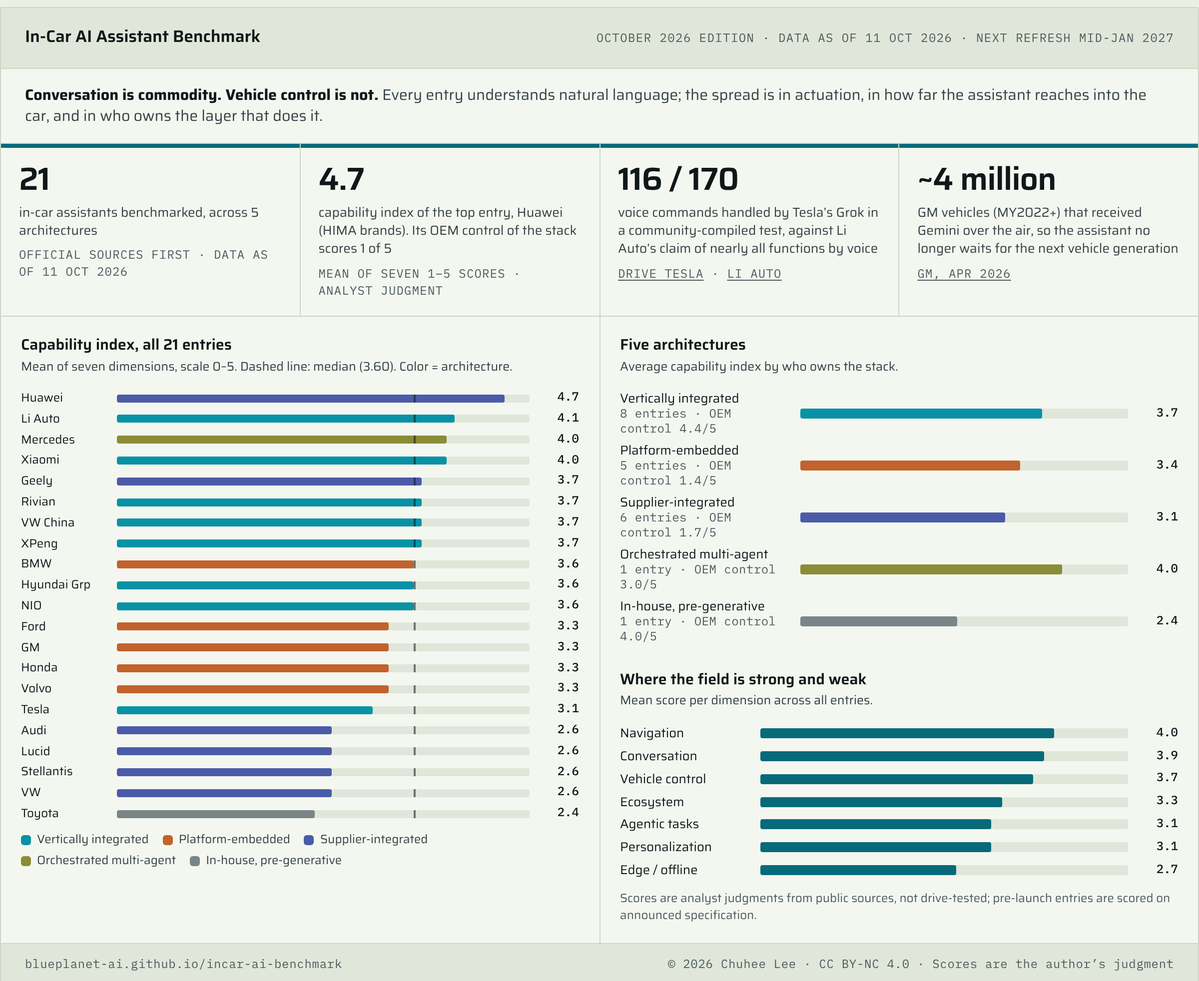
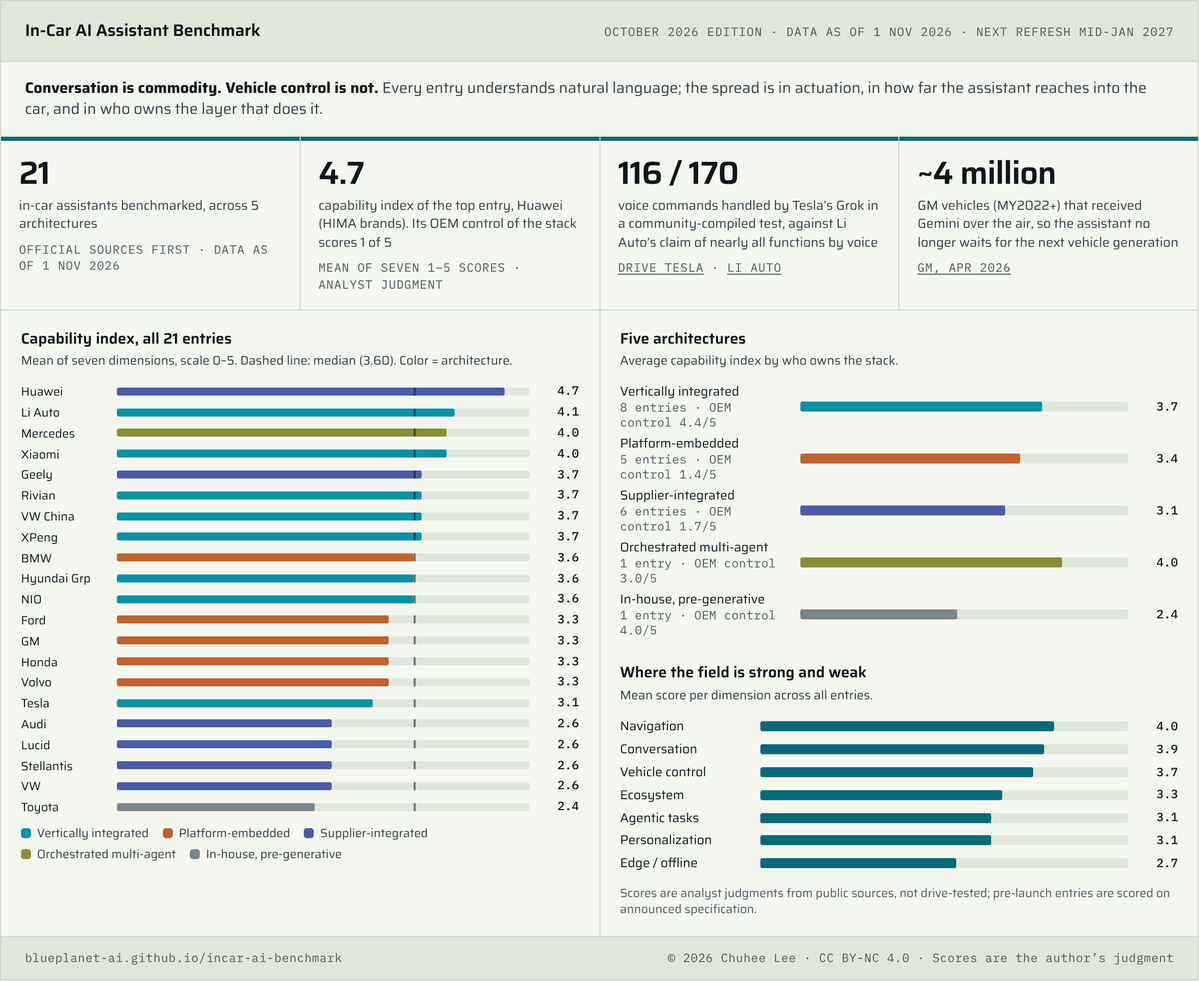
In-Car AI benchmark: 1 Nov 2026 watch-list check (GM OnStar AI Assistant)
- GM entry, use-case row and watch-list item updated for the OnStar AI
  Assistant announced 21 Oct 2026 (2027 Cadillac LYRIQ first by OTA).
  Two trade-press sources added to SRC. No scores changed.
- Other watch-list items rechecked with no material change.
- Data as of 1 Nov 2026 on the page, infographic, home card, README.
- Page change log, CHANGELOG.md and home "What changed" entries added.

Claude-Session: https://claude.ai/code/session_01BJGNVQbnjXG7SToB4bzJMA

diff --git a/incar-ai-benchmark/index.html b/incar-ai-benchmark/index.html
@@ -6,7 +6,7 @@
 <meta name="theme-color" content="#F4F7F0" media="(prefers-color-scheme: light)">
 <meta name="theme-color" content="#151D1F" media="(prefers-color-scheme: dark)">
 <title>In-Car AI Assistant Benchmark — Chuhee Lee</title>
-<meta name="description" content="Independent benchmark of 21 in-car AI assistants, scored on seven capability dimensions and on who controls the stack. October 2026 edition by Chuhee Lee; data as of 11 October 2026.">
+<meta name="description" content="Independent benchmark of 21 in-car AI assistants, scored on seven capability dimensions and on who controls the stack. October 2026 edition by Chuhee Lee; data as of 1 November 2026.">
 <meta name="author" content="Chuhee Lee">
 <link rel="canonical" href="https://blueplanet-ai.github.io/incar-ai-benchmark/">
 <link rel="icon" href="/favicon.svg" type="image/svg+xml">
@@ -15,7 +15,7 @@
 <link rel="license" href="https://creativecommons.org/licenses/by-nc/4.0/">
 <meta property="og:type" content="article">
 <meta property="og:title" content="In-Car AI Assistant Benchmark">
-<meta property="og:description" content="Independent benchmark of 21 in-car AI assistants, scored on seven capability dimensions and on who controls the stack. October 2026 edition by Chuhee Lee; data as of 11 October 2026.">
+<meta property="og:description" content="Independent benchmark of 21 in-car AI assistants, scored on seven capability dimensions and on who controls the stack. October 2026 edition by Chuhee Lee; data as of 1 November 2026.">
 <meta property="og:url" content="https://blueplanet-ai.github.io/incar-ai-benchmark/">
 <meta property="og:site_name" content="Chuhee Lee — Independent Research">
 <meta property="og:image" content="https://blueplanet-ai.github.io/incar-ai-benchmark/og-image.png">
@@ -613,7 +613,7 @@ a.gl-name:hover{color:var(--g-accent)}
  "@type": "Report",
  "headline": "In-Car AI Assistant Benchmark",
  "name": "In-Car AI Assistant Benchmark",
- "description": "Independent benchmark of 21 in-car AI assistants, scored on seven capability dimensions and on who controls the stack. October 2026 edition by Chuhee Lee; data as of 11 October 2026.",
+ "description": "Independent benchmark of 21 in-car AI assistants, scored on seven capability dimensions and on who controls the stack. October 2026 edition by Chuhee Lee; data as of 1 November 2026.",
  "url": "https://blueplanet-ai.github.io/incar-ai-benchmark/",
  "mainEntityOfPage": "https://blueplanet-ai.github.io/incar-ai-benchmark/",
  "inLanguage": "en",
@@ -628,7 +628,7 @@ a.gl-name:hover{color:var(--g-accent)}
   "url": "https://blueplanet-ai.github.io/"
  },
  "license": "https://creativecommons.org/licenses/by-nc/4.0/",
- "dateModified": "2026-10-17",
+ "dateModified": "2026-11-01",
  "image": "https://blueplanet-ai.github.io/og-image.png",
  "datePublished": "2026-10-11"
 }
@@ -660,7 +660,7 @@ a.gl-name:hover{color:var(--g-accent)}
     <h1 class="ro-title">In-Car AI Assistant <em>Benchmark</em></h1>
     <p class="ro-dek">Twenty-one production and near-production assistants, scored on what they can actually do for the driver and on who owns the layer that does it.</p>
     <p class="ro-q"><b>Research question</b><span>What can today’s in-car AI assistants actually do for the driver, and who owns the layer that does it?</span></p>
-    <div class="ro-meta"><span class="ro-by"><svg class="ro-ico" data-ro-ico="person" viewBox="0 0 24 24" aria-hidden="true"></svg>By&nbsp;<a href="https://www.linkedin.com/in/chuheel" target="_blank" rel="noopener"><b>Chuhee Lee</b></a></span><span><svg class="ro-ico" data-ro-ico="doc" viewBox="0 0 24 24" aria-hidden="true"></svg>Data as of 11 Oct 2026</span><span><svg class="ro-ico" data-ro-ico="calendar" viewBox="0 0 24 24" aria-hidden="true"></svg>Next refresh: mid-January 2027</span><a href="#changelog"><svg class="ro-ico" data-ro-ico="history" viewBox="0 0 24 24" aria-hidden="true"></svg>Change log</a></div>
+    <div class="ro-meta"><span class="ro-by"><svg class="ro-ico" data-ro-ico="person" viewBox="0 0 24 24" aria-hidden="true"></svg>By&nbsp;<a href="https://www.linkedin.com/in/chuheel" target="_blank" rel="noopener"><b>Chuhee Lee</b></a></span><span><svg class="ro-ico" data-ro-ico="doc" viewBox="0 0 24 24" aria-hidden="true"></svg>Data as of 1 Nov 2026</span><span><svg class="ro-ico" data-ro-ico="calendar" viewBox="0 0 24 24" aria-hidden="true"></svg>Next refresh: mid-January 2027</span><a href="#changelog"><svg class="ro-ico" data-ro-ico="history" viewBox="0 0 24 24" aria-hidden="true"></svg>Change log</a></div>
     <p class="ro-credit">With research assistance from several AI models (Claude, Gemini, ChatGPT)</p>
     <div class="ro-acts">
       <button type="button" class="ro-primary" id="roCite"><svg class="ro-ico" data-ro-ico="quote" viewBox="0 0 24 24" aria-hidden="true"></svg>Cite</button>
@@ -669,7 +669,7 @@ a.gl-name:hover{color:var(--g-accent)}
       <a href="#refs"><svg class="ro-ico" data-ro-ico="doc" viewBox="0 0 24 24" aria-hidden="true"></svg>References</a>
       <span class="ro-status" id="roStatus" role="status" aria-live="polite"></span>
     </div>
-    <p class="ro-cite"><b>Cite as</b><span id="roCiteText">Chuhee Lee, <i>In-Car AI Assistant Benchmark</i>, October 2026 edition (data as of 11 October 2026), https://blueplanet-ai.github.io/incar-ai-benchmark/, CC BY-NC 4.0.</span></p>
+    <p class="ro-cite"><b>Cite as</b><span id="roCiteText">Chuhee Lee, <i>In-Car AI Assistant Benchmark</i>, October 2026 edition (data as of 1 November 2026), https://blueplanet-ai.github.io/incar-ai-benchmark/, CC BY-NC 4.0.</span></p>
   </div>
 </div></header>
 
@@ -718,7 +718,7 @@ a.gl-name:hover{color:var(--g-accent)}
 
 <section id="summary">
   <div class="sec-head"><h2>Summary</h2><span class="eyebrow">The short version</span></div>
-  <p class="lead">Twenty-one in-car assistants across established automakers, Chinese EV makers and the supplier layer, checked against official sources as of 11 October 2026. Three findings stand out; the full reasoning follows in the strategic read below.</p>
+  <p class="lead">Twenty-one in-car assistants across established automakers, Chinese EV makers and the supplier layer, checked against official sources as of 11 October 2026, with the watch list rechecked on 1 November 2026. Three findings stand out; the full reasoning follows in the strategic read below.</p>
 
   <div class="sum-grid">
     <div class="sum-points">
@@ -993,7 +993,7 @@ a.gl-name:hover{color:var(--g-accent)}
 </section>
 
 <section id="watch">
-  <header class="co"><div class="co-bar"><span>Chapter 5 of 5</span><span class="co-seg" aria-hidden="true"><i></i><i></i><i></i><i></i><i class="on"></i></span></div><div class="co-grid"><span class="co-num" aria-hidden="true">5</span><div class="co-body"><span class="co-eyebrow">Dated watch list</span><h2>What moves next</h2><p class="co-thesis">A dated watch list, from VW Group China&rsquo;s agents and BMW&rsquo;s Alexa+-based assistant to GM&rsquo;s own assistant alongside Gemini.</p></div></div></header>
+  <header class="co"><div class="co-bar"><span>Chapter 5 of 5</span><span class="co-seg" aria-hidden="true"><i></i><i></i><i></i><i></i><i class="on"></i></span></div><div class="co-grid"><span class="co-num" aria-hidden="true">5</span><div class="co-body"><span class="co-eyebrow">Dated watch list</span><h2>What moves next</h2><p class="co-thesis">A dated watch list, from VW Group China&rsquo;s agents and BMW&rsquo;s Alexa+-based assistant to GM&rsquo;s OnStar AI Assistant reaching its first car.</p></div></div></header>
   <div class="watch">
     <div class="item"><div class="when">H2 2026</div><div>
       <h3>VW Group China’s CEA agents confirmed in customer cars</h3>
@@ -1002,8 +1002,8 @@ a.gl-name:hover{color:var(--g-accent)}
       <h3>BMW’s Alexa+-based assistant spreads beyond the iX3</h3>
       <p>Live in iX3s in Germany since spring 2026, with US deliveries under way since September. Further Operating System 9 and X models follow from H2 2026 &mdash; the test of whether a manufacturer-branded assistant on a big-tech architecture reads to customers as the manufacturer’s or as Amazon’s.</p></div></div>
     <div class="item"><div class="when">Late 2026</div><div>
-      <h3>GM’s own assistant arrives alongside Gemini</h3>
-      <p>Confirmed on 31 July: deeper access to vehicle data and telematics, predictive maintenance, owner-specific routines. The first large-scale test of moving from platform-embedded to owned, on vehicles already in customers' hands.</p></div></div>
+      <h3>GM’s OnStar AI Assistant reaches customer cars</h3>
+      <p>Announced on 21 October 2026: GM&rsquo;s own assistant, woken with &ldquo;Hey OnStar&rdquo;, trained on the vehicle, the driver and GM&rsquo;s knowledge library. It arrives first on the 2027 Cadillac LYRIQ by over-the-air update &ldquo;in the coming months&rdquo;, then the Chevrolet Silverado 1500 and GMC Sierra 1500, with a unified OnStar app in 2027. Reports differ on how it relates to Gemini. The first large-scale test of moving from platform-embedded to owned, on vehicles already in customers&rsquo; hands.</p></div></div>
     <div class="item"><div class="when">Late 2026</div><div>
       <h3>SoundHound OASYS Edge reaches its first deployments</h3>
       <p>Fully embedded agentic voice AI that keeps working without a connection, announced in September 2026 for deployment from late 2026 and a CES 2027 showing. No automaker customers named yet.</p></div></div>
@@ -1030,6 +1030,9 @@ a.gl-name:hover{color:var(--g-accent)}
 
   <h3 class="sub-h" id="changelog" style="margin-top:0;">Change log</h3>
   <ul class="log">
+    <li class="loghead">1 November 2026 watch-list check</li>
+    <li><span class="chg">Status</span><div>GM announced its own assistant, the OnStar AI Assistant (21 October 2026). It reaches the 2027 Cadillac LYRIQ first by over-the-air update, then the Silverado 1500 and Sierra 1500. The GM entry, its use-case row and the watch list are updated. GM&rsquo;s OEM control score stays at 1 until the assistant is in customer cars.</div></li>
+    <li><span class="chg">Checked</span><div>The other watch-list items were rechecked to 1 November 2026 with no material change: VW Group China&rsquo;s CEA agents, BMW beyond the iX3, SoundHound OASYS Edge, Alexa Custom Assistant on NVIDIA DRIVE AGX, Huawei Active Suggestion 2.0 (still Q1 2027), the Mercedes C-Class, Ford and Volkswagen in 2027, and Rivian licensing. Other entries remain as checked to 11 October 2026. No scores changed.</div></li>
     <li class="loghead">October 2026 edition</li>
     <li><span class="chg">Changed</span><div>Published as an independent public report. Removed company-specific recommendations; the summary chart now ranks all 21 entries; the routes table covers four architectures; added author, license, disclaimer and the next scheduled refresh date.</div></li>
     <li><span class="chg">Refreshed</span><div>Data checked to 11 October 2026. BMW Launching &rarr; Shipping (assistant live in iX3s in Germany since spring 2026; US deliveries from September). Rivian Assistant now on R2 (software 2026.36). Grok extended to Israel and the UAE. VW ID. AURA T6, the first CEA model, launched 20 September. Kia Sorento (India) assistant by SoundHound. Huawei OTA roadmap and SoundHound OASYS Edge added to the watch list. Toyota re-sourced to its 2022 in-house assistant release. No scores changed.</div></li>
@@ -1044,7 +1047,7 @@ a.gl-name:hover{color:var(--g-accent)}
   </ul>
 
   <div class="caveat">
-    <p><b>How the scores were set.</b> Each entry was scored 1&ndash;5 per dimension from official manufacturer and supplier material first, then J.D. Power benchmark studies, then specialist trade press, current to 11 October 2026. These are analyst judgments calibrated across the set, not measured results &mdash; no vehicle was instrumented or driven. Pre-launch entries (marked Launching) are scored on announced specification, which tends to overstate. Where no official English source could be retrieved, the row says so in its detail. Chinese-market rows rest mainly on trade press and remain the least certain. Readers using this benchmark to inform decisions should validate it with hands-on testing against the seven dimensions.</p>
+    <p><b>How the scores were set.</b> Each entry was scored 1&ndash;5 per dimension from official manufacturer and supplier material first, then J.D. Power benchmark studies, then specialist trade press, current to 11 October 2026; watch-list items were rechecked on 1 November 2026. These are analyst judgments calibrated across the set, not measured results &mdash; no vehicle was instrumented or driven. Pre-launch entries (marked Launching) are scored on announced specification, which tends to overstate. Where no official English source could be retrieved, the row says so in its detail. Chinese-market rows rest mainly on trade press and remain the least certain. Readers using this benchmark to inform decisions should validate it with hands-on testing against the seven dimensions.</p>
   </div>
 
   <h3 class="sub-h">About this report</h3>
@@ -1054,7 +1057,7 @@ a.gl-name:hover{color:var(--g-accent)}
     <p><b>Research assistance.</b> Research, source verification and drafting were carried out with several AI models, including Claude (Anthropic), Gemini (Google) and ChatGPT (OpenAI). Every factual claim is sourced to the references listed below; scores and conclusions are the author’s judgment.</p>
     <p><b>Update schedule.</b> The benchmark is refreshed quarterly, after the major industry events. The next scheduled refresh is in mid-January 2027; every change is recorded in the change log above.</p>
     <p><b>License.</b> &copy; 2026 Chuhee Lee. Licensed under <a href="https://creativecommons.org/licenses/by-nc/4.0/" target="_blank" rel="noopener">Creative Commons Attribution-NonCommercial 4.0 International (CC BY-NC 4.0)</a>. You may share and adapt this work for non-commercial purposes with appropriate credit, a link to the license, and an indication of any changes.</p>
-    <p><b>Suggested citation.</b> Chuhee Lee, <i>In-Car AI Assistant Benchmark</i>, October 2026 edition (data as of 11 October 2026), https://blueplanet-ai.github.io/incar-ai-benchmark/, CC BY-NC 4.0.</p>
+    <p><b>Suggested citation.</b> Chuhee Lee, <i>In-Car AI Assistant Benchmark</i>, October 2026 edition (data as of 1 November 2026), https://blueplanet-ai.github.io/incar-ai-benchmark/, CC BY-NC 4.0.</p>
     <p><b>Corrections.</b> Spotted an error or a newer source? Please get in touch via <a href="https://www.linkedin.com/in/chuheel" target="_blank" rel="noopener">LinkedIn</a>.</p>
   </div>
   <h3 class="sub-h" id="refs">All sources</h3>
@@ -1103,6 +1106,8 @@ const SRC = {
   gasgoo_hs:["Gasgoo — Epicland X9 debuts Huawei ADS 5 and HarmonySpace 6 cockpit, incl. OTA roadmap (17 Jul 2026)","https://autonews.gasgoo.com/articles/news/epicland-x9-debuts-huawei-ads-5-and-harmonyspace-6-cockpit-2077950334705041409","trade"],
   ty_2022:["Toyota — Toyota’s new in-house intelligent assistant learns voice commands (31 May 2022)","https://pressroom.toyota.com/toyotas-new-in-house-intelligent-assistant-learns-voice-commands-and-gets-smarter-over-time/","official"],
   gm_gemini:["GM — Gemini comes to millions of vehicles on the road (28 Apr 2026)","https://news.gm.com/home.detail.html/Pages/news/us/en/2026/apr/0428-Google-Gemini.html","official"],
+  gm_onstar_tc:["TechCrunch — GM is giving OnStar an AI makeover (21 Oct 2026)","https://techcrunch.com/2026/10/21/gm-is-giving-onstar-an-ai-makeover/","trade"],
+  gm_onstar_l2:["The Letter Two — GM turns OnStar into an AI assistant drivers can talk to every day (21 Oct 2026)","https://thelettertwo.com/2026/10/21/gm-onstar-ai-assistant-gemini/","trade"],
   gm_own:["GM Authority — GM proprietary AI assistant launching this year, citing CNBC interview (1 Aug 2026)","https://gmauthority.com/blog/2026/08/gm-proprietary-ai-assistant-launching-this-year/","trade"],
   honda:["Honda — Gemini added to Civic, Accord, CR-V, Pilot and more with Google built-in (15 Jul 2026)","https://hondanews.com/en-US/honda-automobiles/releases/release-197619b9ee3ec0adfccef0bd5f096c4f-honda-adds-google-gemini-a-helpful-ai-assistant-to-civic-accord-cr-v-pilot-and-more-vehicles-with-google-built-in","official"],
   kbb_honda:["Kelley Blue Book — Honda, Acura add AI assistant to many 2023–2026 models","https://www.kbb.com/car-news/honda-acura-add-ai-assistant-to-many-2023-2026-models/","press"],
@@ -1230,11 +1235,11 @@ const DATA = [
   note:"Keeps the BMW voice and gains Amazon’s account graph, smart home and commerce reach — and uses a different model partner in China. The open question is whether a branded wrapper survives contact with a customer who already knows Alexa.",
   src:["bmw","bmw_summer","bmw_news","ek_ix3","gasgoo_ac","ieee"]},
 
- {b:"GM", p:"Google Gemini + own assistant (late 2026)", a:"pe", st:"ship", s:[4,3,3,5,4,3,1], own:1, short:"GM",
-  stack:"Gemini replacing Google Assistant in Google built-in vehicles; requires OnStar connectivity, a Google account and US English. A proprietary assistant built with an unnamed LLM provider on OnStar and vehicle data is announced.",
-  status:"Gemini rolling out from April 2026 to about four million MY2022+ Chevrolet, Buick, GMC and Cadillac vehicles in the US. GM confirmed on 31 July that its own assistant arrives later in 2026.",
+ {b:"GM", p:"Google Gemini + OnStar AI Assistant (announced)", a:"pe", st:"ship", s:[4,3,3,5,4,3,1], own:1, short:"GM",
+  stack:"Gemini replacing Google Assistant in Google built-in vehicles; requires OnStar connectivity, a Google account and US English. GM&rsquo;s own OnStar AI Assistant, trained on the vehicle, the driver and GM&rsquo;s knowledge library, was announced on 21 October 2026; reports differ on whether it runs on Gemini or on a GM-developed model.",
+  status:"Gemini rolling out from April 2026 to about four million MY2022+ Chevrolet, Buick, GMC and Cadillac vehicles in the US. The OnStar AI Assistant (&ldquo;Hey OnStar&rdquo;) reaches the 2027 Cadillac LYRIQ first by over-the-air update in the coming months, then the Silverado 1500 and Sierra 1500.",
   note:"The largest single deployment in the set, and explicitly transitional. OEM control stays at 1 until the proprietary assistant ships.",
-  src:["gm_gemini","gm_own"]},
+  src:["gm_gemini","gm_own","gm_onstar_tc","gm_onstar_l2"]},
 
  {b:"Ford", p:"Gemini (opt-in) + Ford AI Assistant", a:"pe", st:"ship", s:[4,3,3,5,4,3,1], own:2, short:"Ford",
   stack:"Gemini as an opt-in alternative to Google Assistant for in-vehicle voice tasks. Ford’s own AI Assistant — hosted on Google Cloud, built on off-the-shelf LLMs — handles vehicle-specific questions, warning lights and troubleshooting from vehicle data.",
@@ -1335,11 +1340,11 @@ const UC_ROWS=[
   src:["google_tips"],
   grid:{poi:"y",msg:"y",know:"y"}},
 
- {g:"pe", who:"GM", prod:"Gemini + own assistant (late 2026)", conf:"mix",
-  feat:["Everything in the Google built-in row","Fleet-oriented routing: fuel-price and trailer-parking queries","Own assistant announced: predictive maintenance, telemetry analysis, owner routines"],
+ {g:"pe", who:"GM", prod:"Gemini + OnStar AI Assistant (announced)", conf:"mix",
+  feat:["Everything in the Google built-in row","Fleet-oriented routing: fuel-price and trailer-parking queries","OnStar AI Assistant announced (21 Oct 2026): vehicle-specific questions, climate control, range and charging stops; first on the 2027 Cadillac LYRIQ"],
   uc:[Q("Send a message to Anna to let her know that I’m bringing dessert and add a cupcake emoji to it."),Q("Hey Google, take me to the nearest post office. Oh, and add a stop for some good coffee along the way."),Q("I’m suddenly craving barbecue. Are there any good spots along my route? Let’s say, less than a mile detour."),Q("I have three stops to make today and need to finish my day with at least half a tank. Can you help me find the least expensive fuel along my route?"),"Announced own assistant: a &ldquo;kids setting&rdquo; that adjusts climate, music and seats together (CNBC interview, via GM Authority)"],
   lim:["Gemini needs OnStar connectivity, a Google account and US English"],
-  src:["gm_gemini","gm_own"],
+  src:["gm_gemini","gm_own","gm_onstar_tc","gm_onstar_l2"],
   grid:{poi:"y",msg:"y",chain:"y",pro:"a"}},
 
  {g:"pe", who:"Ford", prod:"Ford AI Assistant + Gemini (opt-in)", conf:"mix",
@@ -1711,7 +1716,7 @@ var GL={
  var DIM=[["conv","Conversation"],["agent","Agentic tasks"],["ctrl","Vehicle control"],["nav","Navigation"],["eco","Ecosystem"],["pers","Personalization"],["edge","Edge / offline"]];
  var lnk=function(k,t){return '<a href="'+SRC[k][1]+'" target="_blank" rel="noopener">'+t+'</a>';};
  var tiles=
-  GL.tile(n,'in-car assistants benchmarked, across '+keys.filter(function(k){return DATA.some(function(d){return d.a===k;});}).length+' architectures','Official sources first · data as of 11 Oct 2026')+
+  GL.tile(n,'in-car assistants benchmarked, across '+keys.filter(function(k){return DATA.some(function(d){return d.a===k;});}).length+' architectures','Official sources first · data as of 1 Nov 2026')+
   GL.tile(top.idx.toFixed(1),'capability index of the top entry, '+GL.esc(top.b)+'. Its OEM control of the stack scores '+top.own+' of 5','Mean of seven 1–5 scores · analyst judgment')+
   GL.tile('116 / 170','voice commands handled by Tesla&rsquo;s Grok in a community-compiled test, against Li Auto&rsquo;s claim of nearly all functions by voice',lnk('tesla_test','Drive Tesla')+' · '+lnk('li_ir','Li Auto'))+
   GL.tile('~4 million','GM vehicles (MY2022+) that received Gemini over the air, so the assistant no longer waits for the next vehicle generation',lnk('gm_gemini','GM, Apr 2026'));
@@ -1722,7 +1727,7 @@ var GL={
    return GL.bar({nm:ARCH[k].label,sub:g.length+(g.length===1?' entry':' entries')+' · OEM control '+mo.toFixed(1)+'/5',v:mi,max:5,txt:mi.toFixed(1),c:ARCH[k].color,lw:170});}).join('');
  var dims=DIM.map(function(m,i){var mean=DATA.reduce(function(a,d){return a+d.s[i];},0)/n;return {l:m[1],v:mean};}).sort(function(a,b){return b.v-a.v;})
    .map(function(d){return GL.bar({nm:d.l,v:d.v,max:5,txt:d.v.toFixed(1),c:'var(--g-accent)',lw:130});}).join('');
- root.innerHTML=GL.mast('In-Car AI Assistant Benchmark','October 2026 edition · Data as of 11 Oct 2026 · Next refresh mid-Jan 2027')+
+ root.innerHTML=GL.mast('In-Car AI Assistant Benchmark','October 2026 edition · Data as of 1 Nov 2026 · Next refresh mid-Jan 2027')+
   '<div class="gl-lede"><b>Conversation is commodity. Vehicle control is not.</b> Every entry understands natural language; the spread is in actuation, in how far the assistant reaches into the car, and in who owns the layer that does it.</div>'+
   '<div class="gl-tiles">'+tiles+'</div>'+
   '<div class="gl-two"><div><div class="gl-h">Capability index, all '+n+' entries</div><div class="gl-sub">Mean of seven dimensions, scale 0–5. Dashed line: median ('+med.toFixed(2)+'). Color = architecture.</div>'+ranked+legend+'</div>'+

diff --git a/index.html b/index.html
@@ -594,7 +594,7 @@ table{font-size:9pt;min-width:0!important;width:100%!important}
           <span class="pub-title">In-Car AI Assistant Benchmark</span>
           <span class="pub-q"><b>Question</b>What can today’s in-car AI assistants actually do for the driver, and who owns the layer that does it?</span>
           <span class="pub-desc">21 in-car assistants scored on 7 capability dimensions and on who controls the stack, with use-case evidence and a dated watch list.</span>
-          <span class="pub-meta">Benchmark · data as of 11 Oct 2026 · next refresh mid-Jan 2027</span>
+          <span class="pub-meta">Benchmark · data as of 1 Nov 2026 · next refresh mid-Jan 2027</span>
         </span>
       </a>
     </div>
@@ -688,10 +688,10 @@ table{font-size:9pt;min-width:0!important;width:100%!important}
   <section id="updates">
     <div class="sec-head"><h2>What changed</h2><span class="eyebrow">Latest updates</span></div>
     <ol class="upd">
+      <li><time datetime="2026-11-01">1 Nov 2026</time><span class="t"><span class="k">Updated</span> <a href="/incar-ai-benchmark/#changelog">In-Car AI Assistant Benchmark</a>: GM&rsquo;s OnStar AI Assistant announced; the rest of the watch list rechecked. No scores changed.</span></li>
       <li><time datetime="2026-10-31">31 Oct 2026</time><span class="t"><span class="k">Automated news</span> <a href="/brief/">Daily brief</a>, up to three news stories each weekday morning, selected and summarized automatically. Kept apart from the research.</span></li>
       <li><time datetime="2026-10-24">24 Oct 2026</time><span class="t"><span class="k">Side project</span> <a href="/gate-games/">Gate Games</a>, three short games made for the wait at the gate that the terminal benchmark describes.</span></li>
       <li><time datetime="2026-10-23">23 Oct 2026</time><span class="t"><span class="k">New</span> <a href="/terminal-benchmark/">The terminal benchmark</a>, what people do in airport terminals worldwide and what 28 airports offer.</span></li>
-      <li><time datetime="2026-10-21">21 Oct 2026</time><span class="t"><span class="k">New</span> <a href="/on-the-move/">What people do on the move</a>, a US benchmark of what people do while traveling.</span></li>
     </ol>
     <p class="upd-more"><a href="https://github.com/blueplanet-ai/blueplanet-ai.github.io/blob/main/CHANGELOG.md" target="_blank" rel="noopener">Full change log</a> &middot; <a href="/feed.xml">RSS feed</a></p>
   </section>

diff --git a/README.md b/README.md
@@ -13,7 +13,7 @@ Source for **https://blueplanet-ai.github.io/**: benchmarks, comparisons and res
 | [Agentic AI and the Consumer: 2027 Outlook](https://blueplanet-ai.github.io/agentic-consumer-2027/) | October 2026 (data as of 11 Oct 2026; next refresh Oct 2027) | `agentic-consumer-2027/` |
 | [Mobility Product Outlook 2026–2031](https://blueplanet-ai.github.io/mobility-product-outlook/) | October 2026 (data as of 11 Oct 2026; next refresh Oct 2027) | `mobility-product-outlook/` |
 | [Mega Trends Outlook 2040](https://blueplanet-ai.github.io/mega-trends-2040/) | October 2026 (data as of 1 Oct 2026; next refresh Oct 2027) | `mega-trends-2040/` |
-| [In-Car AI Assistant Benchmark](https://blueplanet-ai.github.io/incar-ai-benchmark/) | October 2026 (data as of 11 Oct 2026; next refresh mid-Jan 2027) | `incar-ai-benchmark/` |
+| [In-Car AI Assistant Benchmark](https://blueplanet-ai.github.io/incar-ai-benchmark/) | October 2026 (data as of 1 Nov 2026; next refresh mid-Jan 2027) | `incar-ai-benchmark/` |
 
 Each report is a single self-contained `index.html` in its own folder, with an **At a glance** infographic at the top (built in the page from the report's own data), a downloadable `<report>-at-a-glance.png` and a 1200×630 `og-image.png` used as its social preview and as its card image on the home page. To add a report, create a new folder, add a card on the home page (`index.html`) tagged with its layer and domain, and link it from the matching cell in the map.
 

diff --git a/CHANGELOG.md b/CHANGELOG.md
@@ -213,6 +213,11 @@
 
 ## In-Car AI Assistant Benchmark
 
+### 1 November 2026 — watch-list check (data as of 1 November 2026)
+- GM: announced its own assistant, the OnStar AI Assistant ("Hey OnStar"), on 21 October 2026. It reaches the 2027 Cadillac LYRIQ first by over-the-air update, then the Chevrolet Silverado 1500 and GMC Sierra 1500; a unified OnStar app follows in 2027. The GM entry, its use-case row and the watch-list item are updated. Sources: TechCrunch and The Letter Two (21 Oct 2026), both trade press.
+- Other watch-list items rechecked with no material change: VW Group China CEA agents, BMW beyond the iX3, SoundHound OASYS Edge, Alexa Custom Assistant on NVIDIA DRIVE AGX, Huawei Active Suggestion 2.0 (still Q1 2027), Mercedes C-Class, Ford and Volkswagen in 2027, and Rivian licensing. Other entries remain as checked to 11 October 2026.
+- "Data as of" moved to 1 November 2026 on the page, the home card, the README and the citation. Home "What changed" gains an entry and drops its oldest row. No scores changed.
+
 ### 15 October 2026 — at-a-glance infographic
 - New At a glance section at the top: headline tiles, the capability index for all entries with the median, average capability by architecture and mean score per dimension, all computed from the benchmark data. PNG download and a per-report social preview added. No scores changed.
 
